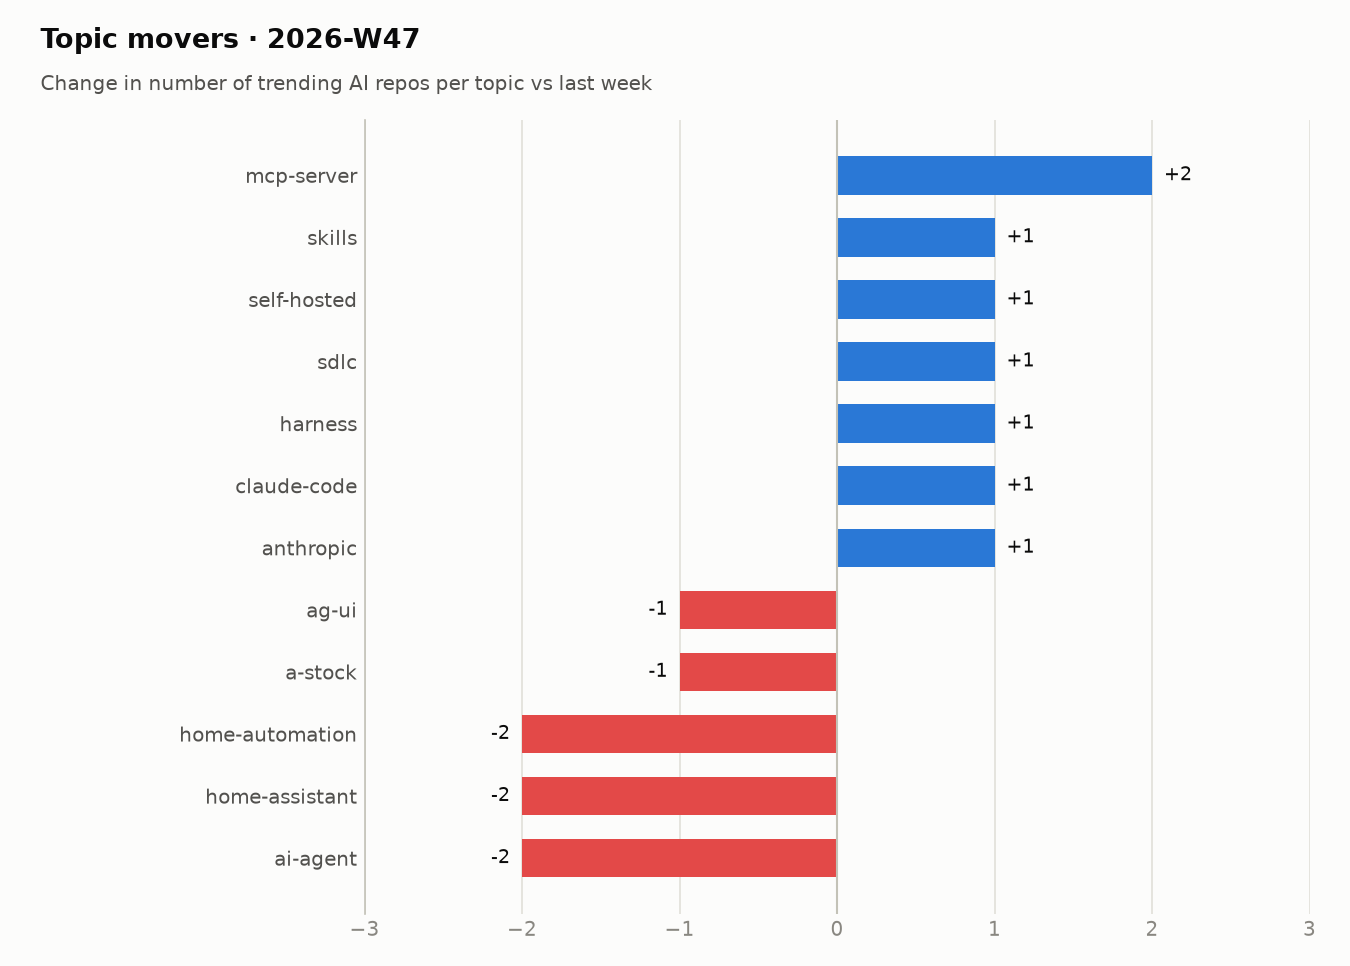
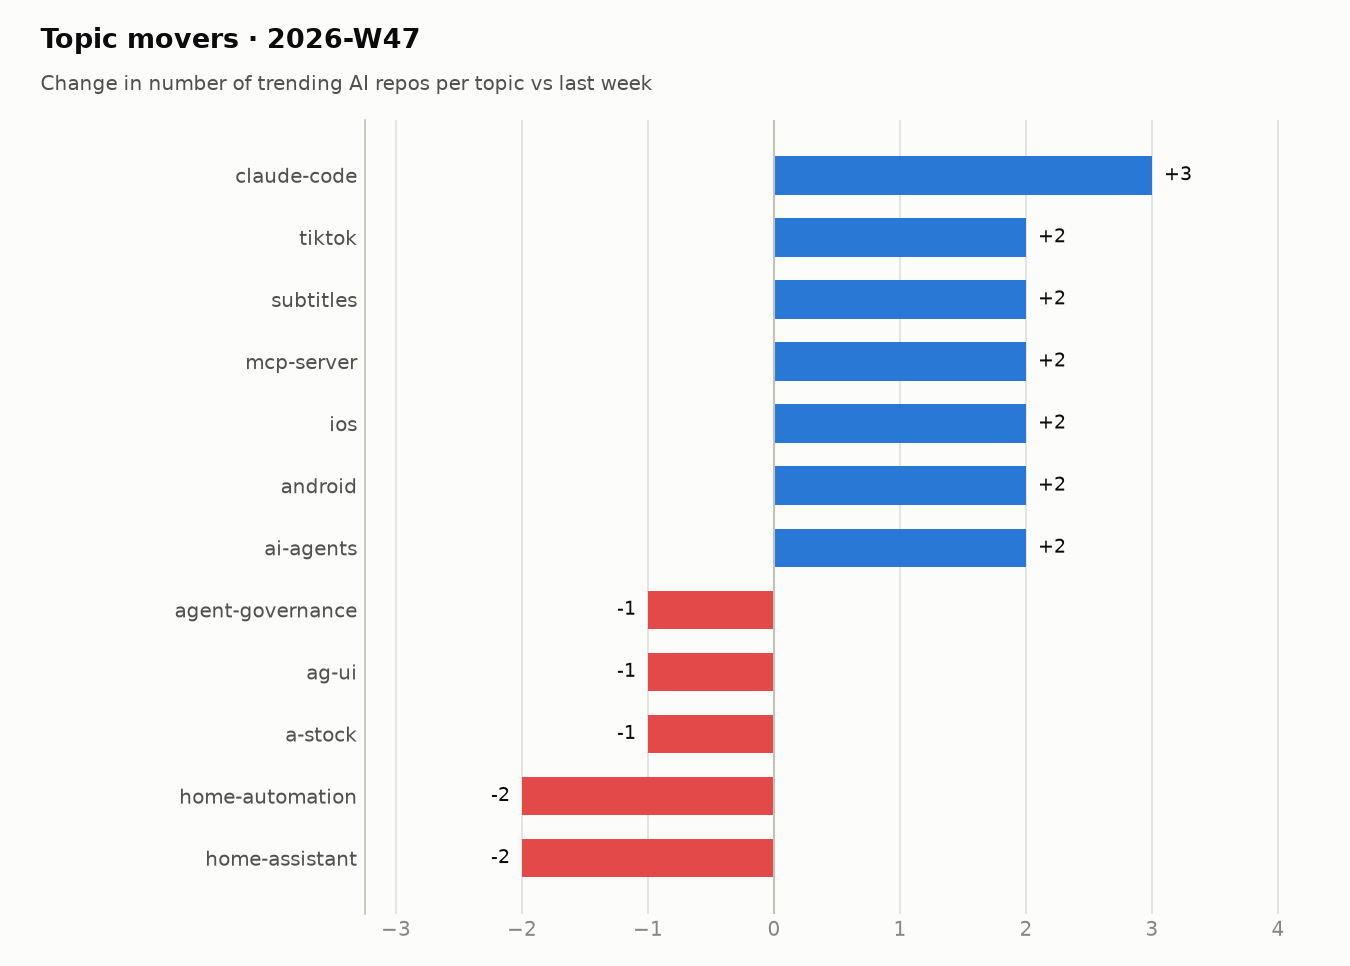
trending: snapshot 2026-11-20

diff --git a/README.md b/README.md
@@ -7,32 +7,34 @@ Every morning a GitHub Actions workflow reads the GitHub trending page, looks up
 ## Live view
 
 <!-- TRACKER_START -->
-### 🔥 AI repos trending today · 2026-11-19
+### 🔥 AI repos trending today · 2026-11-20
 
-11 of 19 trending repositories are AI-related.
+12 of 16 trending repositories are AI-related.
 
 | # | Repo | Language | ⭐ today | ⭐ total | Topics |
 |--:|---|---|--:|--:|---|
-| 2 | [HKUDS/CLI-Anything](https://github.com/HKUDS/CLI-Anything)<br><sub>Star HKUDS / CLI-Anything "CLI-Anything: Making ALL Software Agent-Native" -- CLI-Hub: htt…</sub> | Python | 389 | 60,147 | – |
-| 3 | [mvanhorn/last30days-skill](https://github.com/mvanhorn/last30days-skill)<br><sub>Star mvanhorn / last30days-skill AI agent skill that researches any topic across Reddit, X…</sub> | Python | 1,059 | 70,431 | `ai-prompts` `ai-skill` `bluesky` `claude` |
-| 5 | [NVIDIA/SkillEvaluator](https://github.com/NVIDIA/SkillEvaluator)<br><sub>Star NVIDIA / SkillEvaluator Multi-tier framework for evaluating AI agent skills and plugi…</sub> | Python | 312 | 3,972 | `agent-evaluation` `agent-plugins` `agent-security` `agent-skills` |
-| 8 | [google-research/paper-orchestra](https://github.com/google-research/paper-orchestra)<br><sub>Star google-research / paper-orchestra PaperOrchestra is a multi-agent framework for autom…</sub> | Python | 1,524 | 4,726 | `ai-research-assistant` `multi-agent-systems` |
-| 9 | [google-labs-code/stitch-skills](https://github.com/google-labs-code/stitch-skills)<br><sub>Star google-labs-code / stitch-skills A library of Agent Skills designed to work with the …</sub> | TypeScript | 365 | 10,545 | – |
-| 12 | [appwrite/appwrite](https://github.com/appwrite/appwrite)<br><sub>Star appwrite / appwrite The open-source cloud for agents & devs. Including Auth, Database…</sub> | TypeScript | 232 | 58,367 | `android` `appwrite` `backend` `backend-as-a-service` |
-| 13 | [openvinotoolkit/openvino](https://github.com/openvinotoolkit/openvino)<br><sub>Star openvinotoolkit / openvino OpenVINO™ is an open source toolkit for optimizing and dep…</sub> | C++ | 24 | 11,433 | `ai` `computer-vision` `deep-learning` `deploy-ai` |
-| 14 | [obra/superpowers](https://github.com/obra/superpowers)<br><sub>Sponsor Star obra / superpowers An agentic skills framework & software development methodo…</sub> | Shell | 822 | 321,595 | `ai` `brainstorming` `coding` `obra` |
-| 15 | [affaan-m/ECC](https://github.com/affaan-m/ECC)<br><sub>Sponsor Star affaan-m / ECC The agent harness performance optimization system. Skills, ins…</sub> | JavaScript | 1,108 | 306,867 | `ai-agents` `anthropic` `claude` `claude-code` |
-| 17 | [n8n-io/n8n](https://github.com/n8n-io/n8n)<br><sub>Star n8n-io / n8n Fair-code workflow automation platform with native AI capabilities. Comb…</sub> | TypeScript | 325 | 211,328 | `ai` `apis` `automation` `cli` |
-| 19 | [punkpeye/awesome-mcp-servers](https://github.com/punkpeye/awesome-mcp-servers)<br><sub>Star punkpeye / awesome-mcp-servers A collection of MCP servers.</sub> | – | 53 | 98,197 | `ai` `mcp` |
+| 1 | [elementalsouls/Claude-BugHunter](https://github.com/elementalsouls/Claude-BugHunter)<br><sub>Sponsor Star elementalsouls / Claude-BugHunter A Claude Code skill bundle for bug hunting …</sub> | Python | 1,349 | 13,222 | `ai-security` `anthropic` `application-security` `bug-bounty` |
+| 2 | [obra/superpowers](https://github.com/obra/superpowers)<br><sub>Sponsor Star obra / superpowers An agentic skills framework & software development methodo…</sub> | Shell | 2,028 | 322,416 | `ai` `brainstorming` `coding` `obra` |
+| 3 | [HKUDS/CLI-Anything](https://github.com/HKUDS/CLI-Anything)<br><sub>Star HKUDS / CLI-Anything "CLI-Anything: Making ALL Software Agent-Native" -- CLI-Hub: htt…</sub> | Python | 898 | 60,887 | – |
+| 4 | [jingyaogong/minimind](https://github.com/jingyaogong/minimind)<br><sub>Star jingyaogong / minimind 🧠 两小时从 0 训出你的 64M 大模型。Train your own 64M LLM from scratch in 2…</sub> | Python | 238 | 67,386 | `artificial-intelligence` `large-language-model` |
+| 6 | [firecrawl/firecrawl](https://github.com/firecrawl/firecrawl)<br><sub>Star firecrawl / firecrawl Knowledge infrastructure to make your agents smarter. Search, s…</sub> | TypeScript | 825 | 204,667 | `ai` `ai-agents` `ai-crawler` `ai-scraping` |
+| 8 | [openvinotoolkit/openvino](https://github.com/openvinotoolkit/openvino)<br><sub>Star openvinotoolkit / openvino OpenVINO™ is an open source toolkit for optimizing and dep…</sub> | C++ | 246 | 11,649 | `ai` `computer-vision` `deep-learning` `deploy-ai` |
+| 9 | [cathrynlavery/diagram-design](https://github.com/cathrynlavery/diagram-design)<br><sub>Sponsor Star cathrynlavery / diagram-design Editorial diagram design for Claude Code, Code…</sub> | HTML | 271 | 68,926 | `agent-skills` `claude-code` `codex` `data-visualization` |
+| 10 | [mvanhorn/last30days-skill](https://github.com/mvanhorn/last30days-skill)<br><sub>Star mvanhorn / last30days-skill AI agent skill that researches any topic across Reddit, X…</sub> | Python | 954 | 71,103 | `ai-prompts` `ai-skill` `bluesky` `claude` |
+| 11 | [google-labs-code/stitch-skills](https://github.com/google-labs-code/stitch-skills)<br><sub>Star google-labs-code / stitch-skills A library of Agent Skills designed to work with the …</sub> | TypeScript | 302 | 10,858 | – |
+| 12 | [mjmirza/app-store-compliance](https://github.com/mjmirza/app-store-compliance)<br><sub>Sponsor Star mjmirza / app-store-compliance Avoid common App Store and Google Play rejecti…</sub> | Shell | 377 | 2,279 | `accessibility` `ai-agents` `android` `app-review-guidelines` |
+| 13 | [Tracer-Cloud/opensre](https://github.com/Tracer-Cloud/opensre)<br><sub>Star Tracer-Cloud / opensre The open-source agent for CI/CD reliability.</sub> | Python | 38 | 13,316 | `alerting` `ci-cd` `cli` `datadog` |
+| 16 | [zhouxiaoka/autoclip](https://github.com/zhouxiaoka/autoclip)<br><sub>Star zhouxiaoka / autoclip AutoClip｜一个链接，一键出片。开源 AI 视频剪辑桌面工具，将播客、访谈、课程等长视频自动剪成短视频，生成字幕、封面和…</sub> | Python | 126 | 11,767 | `ai-agent` `ai-video-editor` `content-repurposing` `desktop-app` |
 
 ### 📊 This week so far · 2026-W47
 
 #### Summary
 
-- **23** distinct AI repos trended over 4 day(s) (last week: 28)
-- AI share of all trending slots: **77%** (+8 pts vs last week)
-- No single dominant language: Python, TypeScript tied at 8 repo(s) each
-- Rising topics: `mcp-server` (+2), `anthropic` (+1), `claude-code` (+1), `harness` (+1), `sdlc` (+1)
+- **28** distinct AI repos trended over 5 day(s) (last week: 28)
+- AI share of all trending slots: **77%** (+7 pts vs last week)
+- Dominant language: **Python** (36% of AI repos)
+- Rising topics: `claude-code` (+3), `ai-agents` (+2), `android` (+2), `ios` (+2), `mcp-server` (+2)
+- New this week: `tiktok`, `web-search`, `subtitles`, `android`, `ios`
 
 #### Languages
 
@@ -40,13 +42,14 @@ Every morning a GitHub Actions workflow reads the GitHub trending page, looks up
 
 | Language | Repos | Share | Last week |
 |---|--:|--:|--:|
-| TypeScript | 8 | 35% | 11 |
-| Python | 8 | 35% | 6 |
-| Go | 2 | 9% | 4 |
-| C++ | 2 | 9% | 2 |
-| Shell | 1 | 4% | 1 |
+| Python | 10 | 36% | 6 |
+| TypeScript | 9 | 32% | 11 |
+| Go | 2 | 7% | 4 |
+| C++ | 2 | 7% | 2 |
+| Shell | 2 | 7% | 1 |
 | JavaScript | 1 | 4% | 1 |
 | Unspecified | 1 | 4% | 0 |
+| HTML | 1 | 4% | 0 |
 
 #### Topics
 
@@ -54,14 +57,14 @@ Every morning a GitHub Actions workflow reads the GitHub trending page, looks up
 
 | Topic | Repos this week |
 |---|--:|
-| `claude-code` | 7 |
-| `mcp` | 6 |
-| `ai-agents` | 4 |
-| `codex` | 4 |
+| `claude-code` | 9 |
+| `mcp` | 7 |
+| `ai-agents` | 6 |
+| `codex` | 5 |
+| `agent-skills` | 4 |
 | `code-review` | 3 |
 | `skills` | 3 |
 | `mcp-server` | 3 |
-| `agent-skills` | 3 |
 | `self-hosted` | 3 |
 | `claude` | 3 |
 | `agentic-workflow` | 2 |
@@ -71,20 +74,20 @@ Every morning a GitHub Actions workflow reads the GitHub trending page, looks up
 
 | Repo | Language | Days trending | Stars gained | Total stars |
 |---|---|--:|--:|--:|
-| [google-labs-code/stitch-skills](https://github.com/google-labs-code/stitch-skills) | TypeScript | 4 | 1,491 | 10,545 |
+| [google-labs-code/stitch-skills](https://github.com/google-labs-code/stitch-skills) | TypeScript | 5 | 1,793 | 10,858 |
+| [elementalsouls/Claude-BugHunter](https://github.com/elementalsouls/Claude-BugHunter) | Python | 4 | 3,546 | 13,222 |
+| [mvanhorn/last30days-skill](https://github.com/mvanhorn/last30days-skill) | Python | 4 | 2,844 | 71,103 |
+| [obra/superpowers](https://github.com/obra/superpowers) | Shell | 3 | 4,767 | 322,416 |
 | [dream-num/univer](https://github.com/dream-num/univer) | TypeScript | 3 | 4,590 | 29,742 |
 | [google-research/paper-orchestra](https://github.com/google-research/paper-orchestra) | Python | 3 | 2,909 | 4,726 |
 | [ag-ui-protocol/ag-ui](https://github.com/ag-ui-protocol/ag-ui) | TypeScript | 3 | 2,591 | 20,234 |
 | [alibaba/open-code-review](https://github.com/alibaba/open-code-review) | Go | 3 | 2,405 | 54,051 |
 | [backnotprop/plannotator](https://github.com/backnotprop/plannotator) | TypeScript | 3 | 2,253 | 13,232 |
-| [elementalsouls/Claude-BugHunter](https://github.com/elementalsouls/Claude-BugHunter) | Python | 3 | 2,197 | 10,199 |
-| [mvanhorn/last30days-skill](https://github.com/mvanhorn/last30days-skill) | Python | 3 | 1,890 | 70,431 |
 | [NVIDIA/SkillEvaluator](https://github.com/NVIDIA/SkillEvaluator) | Python | 3 | 1,307 | 3,972 |
-| [obra/superpowers](https://github.com/obra/superpowers) | Shell | 2 | 2,739 | 321,595 |
 
 ➡ Last full weekly analysis: [2026-W46](reports/weekly/2026-W46.md) · [all reports](reports/weekly)
 
-_Tracking since 2026-10-01 · 50 day(s) of data · [raw data](data/trending.csv)_
+_Tracking since 2026-10-01 · 51 day(s) of data · [raw data](data/trending.csv)_
 <!-- TRACKER_END -->
 
 ## How it works
